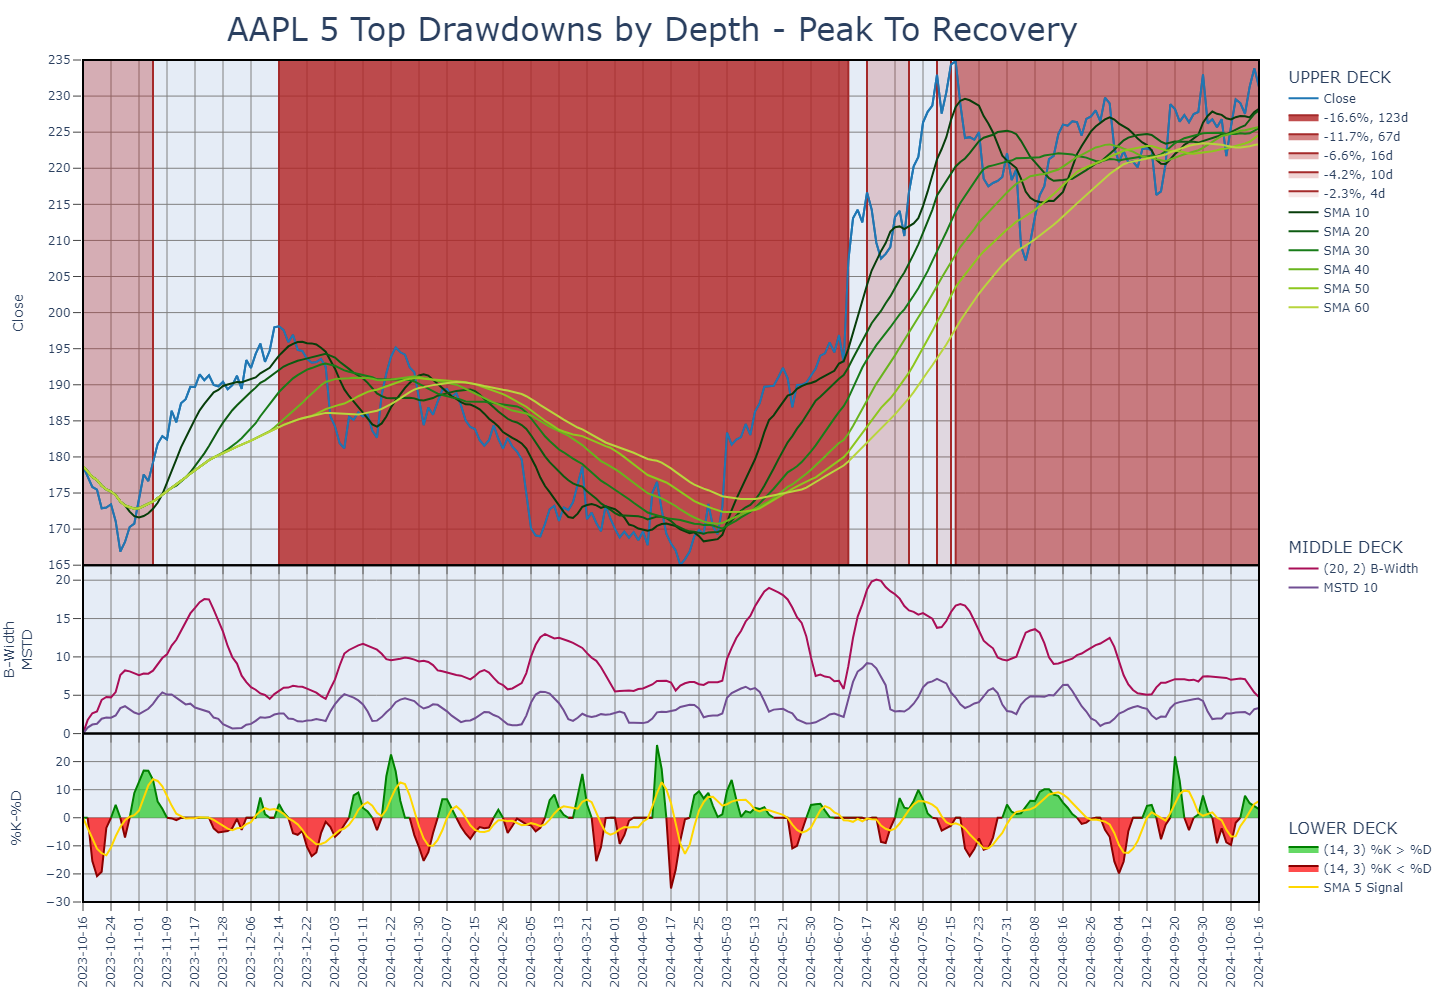
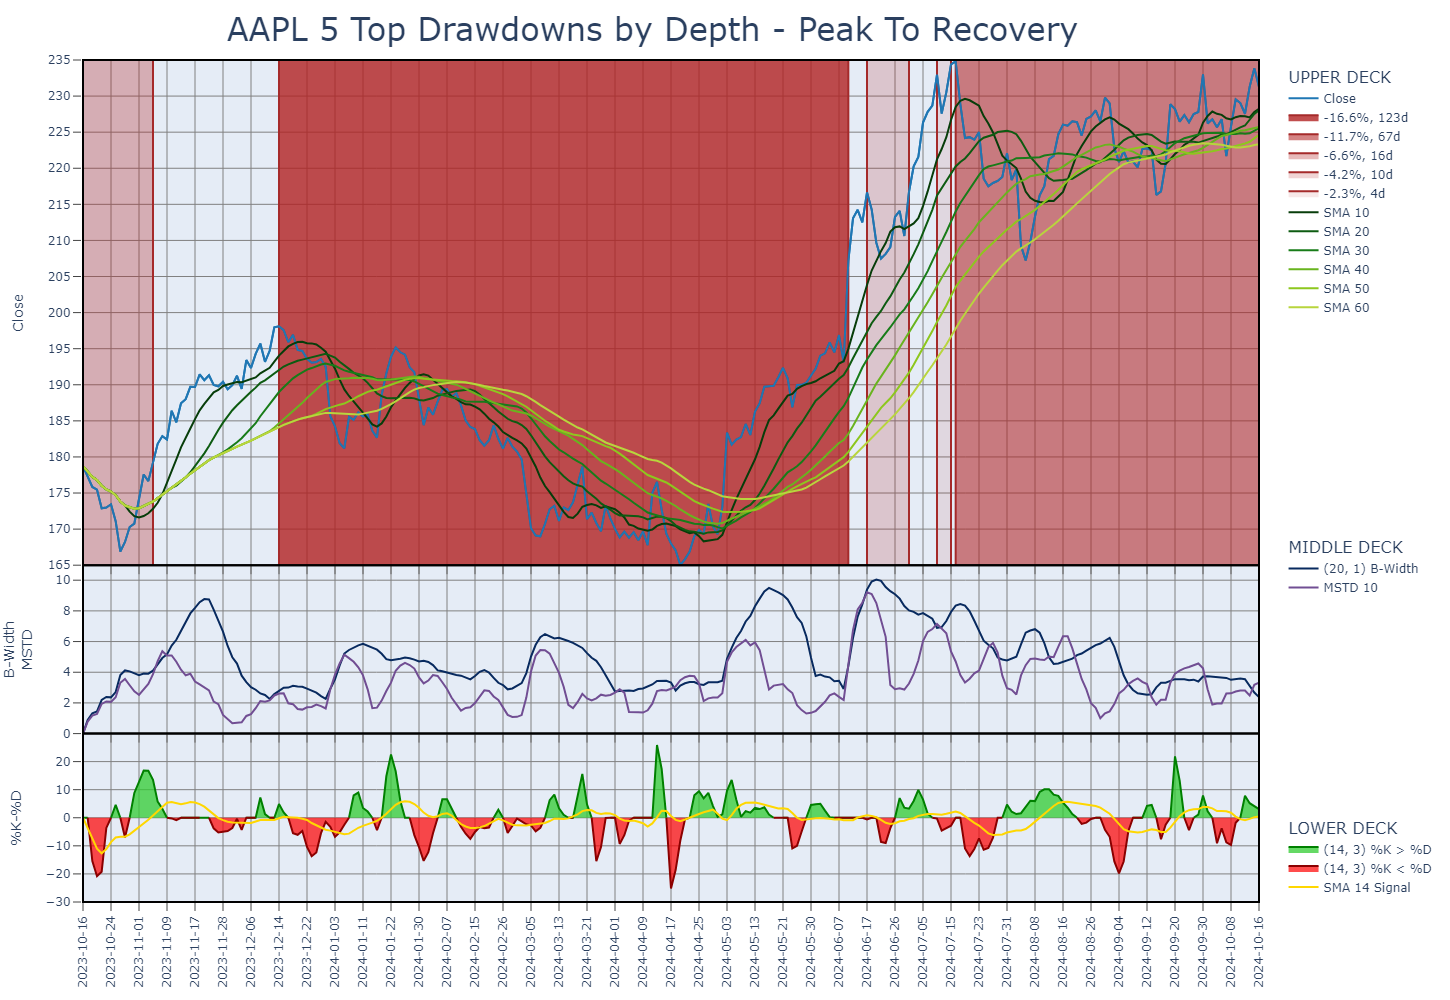
Updated graph #18 and README

diff --git a/README.md b/README.md
@@ -242,11 +242,11 @@ This combination of indicators - candles, EMA 200, Stochastic %K and %D lines wi
 > Interactive: yes<BR>
 
 ### 18. Top Drawdowns With SMA Overlays (Upper), Bollinger Width and Moving STD (Middle) and Stochastic K-D Difference With Signal (Lower)
-The main plot in the upper deck is similar to 11. above, except the five top drawdowns by % depth are displayed in their full length from the initial peak to recovery. The drawdowns are based on, and are overlaid with, the Close price, and their color intensity is proportional to the % depth. Additional overlays are SMA lines in 10-day window increments.
+The main plot in the upper deck is similar to 11. above except the five top drawdowns by % depth are displayed in their full length from the initial peak to recovery. The drawdowns are based on and are overlaid with the Close price. As in 11. above, the drawdown color intensity is proportional to the % depth. Additional overlays are SMA lines in 10-day window increments.
 
-The middle deck plots two volatility-related metrics: the standard (20, 2) Bollinger Width and the 10-day Moving Standard Deviation.
+The middle deck plots two volatility-related metrics: the one-standard-deviation 20-day Bollinger width (B-Width) and the 10-day moving standard deviation (MSTD). You can notice shifts in the peaks and other features of the two curves due to the difference in the moving average windows.
 
-The lower deck plots the difference of standard (14,3) Slow Stochastic %K and %D lines, with an arbitrary 5-day SMA signal overlay.
+The lower deck plots the difference of standard (14,3) slow stochastic %K and %D lines, with an arbitrary 5-day SMA signal overlay. Note that the signal line can only provide any additional and meaningful information if its window is smaller than the stochastic's look-back (fast %K) period.
 
 > ![](img/18_Drawdowns_SMA10_BollWidthMSTD_K-D_Light_600x200x200.png)
 
